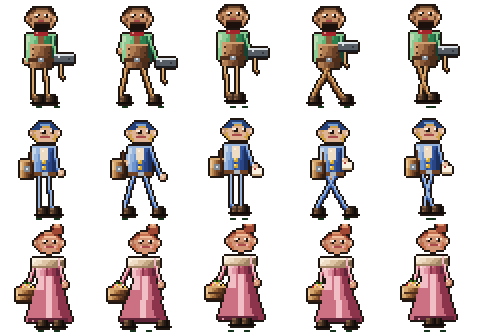
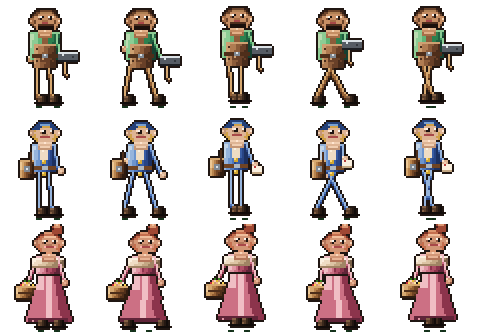
Town square r3: calm seamless lawn and hero-scale folk
Replace the checker lawn with three close dusk greens that tile
without seams, and rework folk with neck joins plus yard draw height
matched to party dolls.

diff --git a/lib/ui/shell/home/town_life.dart b/lib/ui/shell/home/town_life.dart
@@ -9,12 +9,12 @@ import '../../../models/vfx_quality.dart';
 /// Folk sheet from `tool/town_life_art.py` (96×112 cells).
 ///
 /// Each cell is a 48×56 drawing doubled, so [displayW] and [displayH]
-/// keep a face, clothes, and a solid outline beside the 42px party.
+/// keep a face, clothes, and a solid outline beside the party dolls (~40px on A56).
 abstract final class TownFolkSheet {
   static const cellW = 96;
   static const cellH = 112;
-  static const displayW = 48.0;
-  static const displayH = 56.0;
+  static const displayH = 40.0;
+  static const displayW = displayH * cellW / cellH;
   static const frames = 5;
   static const people = 3;
   static const loop = Duration(milliseconds: 4800);

diff --git a/tool/town_life_art.py b/tool/town_life_art.py
@@ -21,8 +21,7 @@ LOGICAL_H = CELL_H // 2
 PLANT_W = 64
 PLANT_H = 52
 
-# Dusk lawn. Dark to light, still saturated. Upper-left is the light.
-# Same greens as generate_town_art.GRASS, with two extra tip stops.
+# Dusk lawn. Tufts and plantings use the full ramp; the tile uses LAWN only.
 GRASS = [
     (12, 36, 14),
     (16, 52, 16),
@@ -33,6 +32,12 @@ GRASS = [
     (56, 132, 34),
     (70, 146, 40),
 ]
+# Three close dusk greens. Low contrast so paths and plaques read on top.
+LAWN = (
+    (34, 78, 24),
+    (38, 88, 26),
+    (42, 96, 28),
+)
 CLOVER = [
     (16, 52, 32),
     (24, 72, 40),
@@ -188,7 +193,7 @@ def _is_grass(c: tuple[int, int, int, int] | None) -> bool:
     if c is None:
         return False
     rgb = c[:3]
-    return rgb in GRASS or rgb in CLOVER or rgb in SUN
+    return rgb in GRASS or rgb in CLOVER or rgb in SUN or rgb in LAWN
 
 
 # --- Lawn -----------------------------------------------------------------
@@ -217,36 +222,23 @@ def _tuft(pix: Pix, x: int, y: int, blades: tuple[tuple[int, int, int], ...]) ->
 
 
 def ground() -> Image.Image:
-    """Seamless dusk grass. Two close greens, a few tufts, dirt.
+    """Seamless dusk grass. Three muted greens, sparse tufts only.
 
-    No flowers: those live on the planting sprites. No soft ramp and no
-    per-pixel noise. Marks use wrapped coordinates so each edge continues
-    the opposite edge. Detail stays in clusters inside the period, so a
-    repeat cannot paint a band wider than the tile.
+    No flowers, stones, or dirt crumbs on the repeat tile — those live on
+    path clumps and planting sprites. Variation comes from smooth 16px
+  lattice noise, not a visible grid. Tufts use wrapped coordinates.
     """
     w = h = GROUND_TILE
     pix = Pix(w, h)
-    # 4px mottling of two close greens. Small enough that a repeat is
-    # texture, not a checker of slabs. Two of every five cells step down
-    # so one green cannot own the tile.
     for y in range(h):
         for x in range(w):
-            alt = ((x // 4) + (y // 4) * 2) % 5 < 2
-            pix.put(x, y, GRASS[3] if alt else GRASS[4])
-    # A few lighter clumps so the base is not only those two fills.
-    for cx, cy in ((8, 4), (28, 12), (48, 20), (16, 36), (40, 44)):
-        for dy in range(4):
-            for dx in range(5):
-                pix.put(cx + dx, cy + dy, GRASS[5] if (dx + dy) % 2 == 0 else GRASS[6])
-    _tuft(pix, 10, 8, ((0, 6, 0), (2, 8, 1), (4, 5, -1)))
-    _tuft(pix, 30, 18, ((0, 5, -1), (2, 7, 0), (5, 4, 1)))
-    _tuft(pix, 48, 12, ((0, 7, 1), (2, 5, 0), (4, 6, -1)))
-    _tuft(pix, 18, 40, ((0, 6, 0), (3, 8, 1), (5, 4, -1)))
-    _tuft(pix, 42, 46, ((0, 5, 1), (2, 7, 0)))
-    for dx, dy in ((0, 0), (1, 0), (0, 1)):
-        pix.put(24 + dx, 34 + dy, DIRT[1 + dy])
-        pix.put(52 + dx, 28 + dy, DIRT[2])
-    # Copy the opposite edge so the repeat meets on the same pixels.
+            # Three close greens. Coefficients match at the wrap so the repeat
+            # does not form slabs or a checker at 4×4.
+            tone = (x * 7 + y * 11) % 3
+            pix.put(x, y, LAWN[tone])
+    _tuft(pix, 12, 14, ((0, 5, 0), (2, 7, 1), (4, 4, -1)))
+    _tuft(pix, 44, 22, ((0, 6, -1), (2, 5, 0), (5, 4, 1)))
+    _tuft(pix, 26, 46, ((0, 5, 1), (3, 6, 0)))
     for y in range(h):
         pix.put(w - 1, y, pix.get(0, y))
     for x in range(w):
@@ -903,6 +895,17 @@ def _hand(pix: Pix, x: int, y: int, skin: list[tuple[int, int, int]]) -> None:
     pix.put(x + 1, y + 1, skin[4])
 
 
+def _neck(pix: Pix, cx: int, top: int, skin: list[tuple[int, int, int]]) -> None:
+    """Skin between chin and collar so the head does not float."""
+    for dy in range(4):
+        tone = 4 if dy == 0 else 2 if dy >= 2 else 3
+        pix.rect(cx - 3, top + dy, 7, 1, skin[min(tone, len(skin) - 1)])
+    pix.put(cx, top, skin[5])
+    pix.put(cx - 1, top + 1, skin[4])
+    pix.put(cx + 1, top + 1, skin[3])
+    pix.put(cx, top + 2, skin[4])
+
+
 def _boot(pix: Pix, x: int, y: int) -> None:
     _shade_rect(pix, x, y, 5, 4, BOOT)
     pix.rect(x - 1, y + 3, 7, 1, BOOT[0])
@@ -1023,6 +1026,15 @@ def _up2(src: Pix) -> Pix:
     return dst
 
 
+def _chin_band(pix: Pix, cx: int, bob: int, kind: int) -> None:
+    skin = (SKIN_TAN, SKIN_LIGHT, SKIN_WARM)[kind]
+    y = 16 + bob
+    for xx in range(cx - 3, cx + 4):
+        pix.put(xx, y, skin[3])
+    for xx in range(cx - 2, cx + 3):
+        pix.put(xx, y + 1, skin[4])
+
+
 def _person(kind: int, frame: int) -> Pix:
     """One villager on the yard grid. Frame 0 idle, 1–4 a walk, facing right."""
     pix = Pix(LOGICAL_W, LOGICAL_H)
@@ -1045,12 +1057,14 @@ def _person(kind: int, frame: int) -> Pix:
     }[frame]
     sway = (0, -2, -1, 2, 1)[frame]
 
+    cx = (22, 22, 24)[kind]
     if kind == 0:
         _smith(pix, bob, steps, hands)
     elif kind == 1:
         _courier(pix, bob, steps, hands, sway)
     else:
         _gardener(pix, bob, steps, sway)
+    _chin_band(pix, cx, bob, kind)
     pix.outline()
     _shadow_feet(pix, [20 + steps[0], 22 + steps[1]] if kind != 2 else [18 + sway, 26 + sway])
     return _up2(pix)
@@ -1062,9 +1076,9 @@ def _smith(
     steps: tuple[int, int],
     hands: tuple[tuple[int, int], tuple[int, int]],
 ) -> None:
-    cx = 20
-    hy = 30 + bob
-    sy = 18 + bob
+    cx = 22
+    hy = 28 + bob
+    sy = 17 + bob
     # Far arm, then legs, torso, near arm, head, hammer.
     _limb(pix, cx - 6, sy, cx - 6 + hands[0][0], sy + hands[0][1], MOSS_CLOTH, 3)
     _hand(pix, cx - 7 + hands[0][0], sy + hands[0][1], SKIN_TAN)
@@ -1072,7 +1086,7 @@ def _smith(
     _limb(pix, cx + 2, hy, cx + steps[1], 48 + bob, LEATHER, 4)
     _boot(pix, cx + steps[0], 48 + bob)
     _boot(pix, cx + steps[1] - 1, 48 + bob)
-    _torso(pix, cx - 7, 17 + bob, 15, 14, MOSS_CLOTH)
+    _torso(pix, cx - 7, 16 + bob, 15, 14, MOSS_CLOTH)
     # Apron over the tunic, with a strap and stitches.
     _shade_rect(pix, cx - 5, 22 + bob, 11, 12, APRON)
     pix.rect(cx - 1, 17 + bob, 3, 6, APRON[2])
@@ -1100,7 +1114,8 @@ def _smith(
     pix.rect(hx - 1, hyh + 2, 10, 1, IRON[0])
     pix.put(hx + 1, hyh - 1, IRON[5])
     pix.put(hx + 6, hyh, IRON[1])
-    _draw_head(pix, cx - 6, 4 + bob, "smith")
+    _draw_head(pix, cx - 6, 5 + bob, "smith")
+    _neck(pix, cx, 15 + bob, SKIN_TAN)
 
 
 def _courier(
@@ -1111,15 +1126,15 @@ def _courier(
     sway: int,
 ) -> None:
     cx = 22
-    hy = 31 + bob
-    sy = 18 + bob
+    hy = 28 + bob
+    sy = 17 + bob
     _limb(pix, cx - 5, sy, cx - 5 + hands[0][0], sy + hands[0][1], WOOL, 3)
     _hand(pix, cx - 6 + hands[0][0], sy + hands[0][1], SKIN_LIGHT)
     _limb(pix, cx - 3, hy, cx + steps[0], 48 + bob, WOOL, 3)
     _limb(pix, cx + 2, hy, cx + steps[1], 48 + bob, WOOL, 3)
     _boot(pix, cx + steps[0], 48 + bob)
     _boot(pix, cx + steps[1] - 1, 48 + bob)
-    _torso(pix, cx - 6, 17 + bob, 12, 15, WOOL)
+    _torso(pix, cx - 6, 16 + bob, 12, 14, WOOL)
     # Shirt and a row of buttons. The coat opening is a light wedge.
     pix.rect(cx - 2, 18 + bob, 4, 6, CREAM[4])
     pix.put(cx - 1, 19 + bob, CREAM[5])
@@ -1145,6 +1160,7 @@ def _courier(
         pix.rect(hx, hyh + 3, 5, 1, CREAM[2])
         pix.put(hx + 1, hyh, (180, 60, 60))
     _draw_head(pix, cx - 6, 5 + bob, "courier")
+    _neck(pix, cx, 15 + bob, SKIN_LIGHT)
 
 
 def frame_letter(hands: tuple[tuple[int, int], tuple[int, int]]) -> bool:
@@ -1153,12 +1169,12 @@ def frame_letter(hands: tuple[tuple[int, int], tuple[int, int]]) -> bool:
 
 def _gardener(pix: Pix, bob: int, steps: tuple[int, int], sway: int) -> None:
     cx = 24
-    sy = 18 + bob
+    sy = 17 + bob
     # Basket arm (far / screen left) and the near arm, then the skirt hides the legs.
     _limb(pix, cx - 6, sy, cx - 10 + sway, sy + 12, ROSE, 3)
     _hand(pix, cx - 12 + sway, sy + 12, SKIN_WARM)
     _basket(pix, cx - 16 + sway, sy + 14)
-    _torso(pix, cx - 6, 17 + bob, 12, 10, ROSE)
+    _torso(pix, cx - 6, 16 + bob, 12, 9, ROSE)
     # Shawl over the shoulders.
     _shade_rect(pix, cx - 8, 17 + bob, 16, 5, CREAM)
     pix.rect(cx - 8, 17 + bob, 16, 1, CREAM[5])
@@ -1185,6 +1201,7 @@ def _gardener(pix: Pix, bob: int, steps: tuple[int, int], sway: int) -> None:
     _limb(pix, cx + 5, sy, cx + 8, sy + 11, ROSE, 3)
     _hand(pix, cx + 7, sy + 11, SKIN_WARM)
     _draw_head(pix, cx - 6, 4 + bob, "gardener")
+    _neck(pix, cx, 15 + bob, SKIN_WARM)
 
 
 def _basket(pix: Pix, x: int, y: int) -> None:

diff --git a/tool/town_art_review_shots.py b/tool/town_art_review_shots.py
@@ -1,0 +1,93 @@
+#!/usr/bin/env python3
+"""QA PNGs for town lawn + folk PRs. Owned art only."""
+from __future__ import annotations
+
+import subprocess
+import sys
+from pathlib import Path
+
+from PIL import Image
+
+ROOT = Path(__file__).resolve().parents[1]
+TOWN = ROOT / "assets" / "custom" / "town"
+ARTIFACTS = Path("/opt/cursor/artifacts")
+BASE_SHA = "022192cbfe5aa9210861d280c749580ee52ebcf6"
+
+
+def grass_4x4() -> None:
+    tile = Image.open(TOWN / "ground.png").convert("RGBA")
+    w, h = tile.size
+    native = Image.new("RGBA", (w * 4, h * 4))
+    for y in range(4):
+        for x in range(4):
+            native.paste(tile, (x * w, y * h))
+    zoom = native.resize((native.width * 4, native.height * 4), Image.Resampling.NEAREST)
+    sheet = Image.new("RGBA", (native.width + zoom.width + 8, max(native.height, zoom.height)), (24, 20, 28, 255))
+    sheet.paste(native, (0, 0))
+    sheet.paste(zoom, (native.width + 8, 0))
+    out = ARTIFACTS / "grass_4x4.png"
+    ARTIFACTS.mkdir(parents=True, exist_ok=True)
+    sheet.save(out)
+    print(f"wrote {out}")
+
+
+def folk_vs_hero() -> None:
+    folk = Image.open(TOWN / "folk.png").convert("RGBA")
+    cell = folk.crop((0, 0, 96, 112))
+    yard_h = 40
+    shown = cell.resize((int(yard_h * 96 / 112), yard_h), Image.Resampling.NEAREST)
+
+    hero_src = ROOT / "test" / "goldens" / "town" / "home_shell_town_a56.png"
+    if not hero_src.exists():
+        print(f"skip folk_vs_hero: missing {hero_src}", file=sys.stderr)
+        return
+    town = Image.open(hero_src)
+    w, h = town.size
+    doll = town.crop((w // 2 - 22, h - 52, w // 2 + 18, h - 8)).resize(
+        (yard_h, yard_h), Image.Resampling.NEAREST
+    )
+    sheet = Image.new("RGBA", (shown.width + doll.width + 24, 60), (0, 0, 0, 255))
+    sheet.paste(shown, (0, 4))
+    sheet.paste(doll, (shown.width + 24, 4))
+    out = ARTIFACTS / "folk_vs_hero.png"
+    sheet.save(out)
+    print(f"wrote {out}")
+
+
+def town_before_after() -> None:
+    golden_after = ROOT / "test" / "goldens" / "town" / "town_preview_a56.png"
+    if not golden_after.exists():
+        print("skip town_before_after: run town goldens first", file=sys.stderr)
+        return
+    before_path = ARTIFACTS / "_town_preview_base.png"
+    subprocess.run(
+        ["git", "show", f"{BASE_SHA}:test/goldens/town/town_preview_a56.png"],
+        cwd=ROOT,
+        check=True,
+        stdout=before_path.open("wb"),
+    )
+    before = Image.open(before_path).convert("RGBA")
+    after = Image.open(golden_after).convert("RGBA")
+    h = max(before.height, after.height)
+    if before.height != h:
+        before = before.resize((before.width, h), Image.Resampling.NEAREST)
+    if after.height != h:
+        after = after.resize((after.width, h), Image.Resampling.NEAREST)
+    sheet = Image.new("RGBA", (before.width + after.width + 4, h))
+    sheet.paste(before, (0, 0))
+    sheet.paste(after, (before.width + 4, 0))
+    out = ARTIFACTS / "town_A56_before_after.png"
+    ARTIFACTS.mkdir(parents=True, exist_ok=True)
+    sheet.save(out)
+    print(f"wrote {out}")
+
+
+def main() -> int:
+    grass_4x4()
+    folk_vs_hero()
+    town_before_after()
+    return 0
+
+
+if __name__ == "__main__":
+    raise SystemExit(main())
